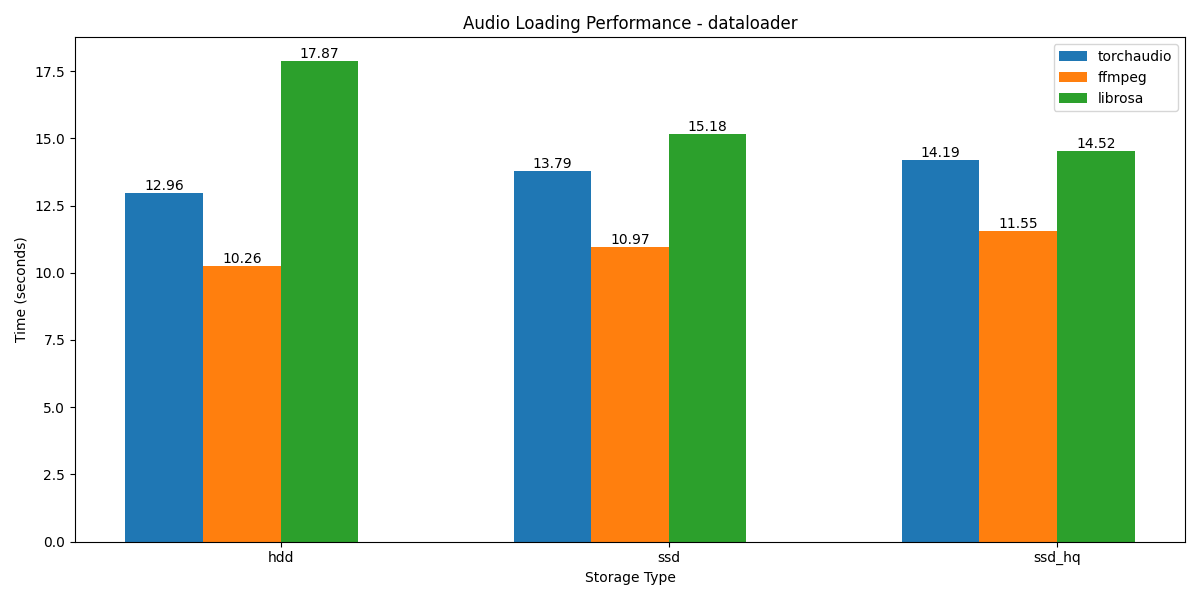
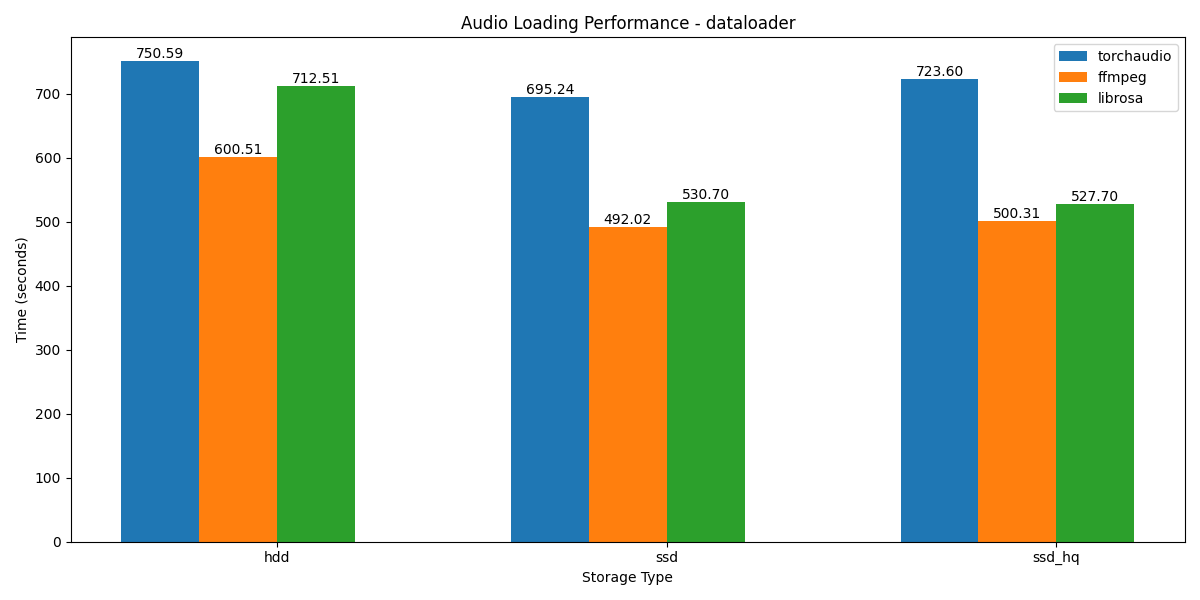
update

diff --git a/audio_speed_test.py b/audio_speed_test.py
@@ -23,19 +23,28 @@ def run_loader(args):
     _ = loader_func(file_path)
     return time.time() - start_time
     
-class AudioDataset(Dataset):
+class AudioDataset(torch.utils.data.IterableDataset):
     def __init__(self, root_dir: str, loader_func: Callable):
+        super().__init__()
         self.root_dir = Path(root_dir)
-        self.audio_files = list(os.listdir(self.root_dir))  # Adjust extension as needed
+        self.audio_files = list(os.listdir(self.root_dir))
         self.loader_func = loader_func
-
-    def __len__(self):
-        return len(self.audio_files)
-
-    def __getitem__(self, idx):
-        audio_path = os.path.join(self.root_dir, self.audio_files[idx])
-        audio_data, sample_rate = self.loader_func(audio_path)
-        return audio_data
+        
+    def __iter__(self):
+        worker_info = torch.utils.data.get_worker_info()
+        if worker_info is None:  # Single-process data loading
+            iter_start = 0
+            iter_end = len(self.audio_files)
+        else:  # In a worker process
+            per_worker = int(len(self.audio_files) / worker_info.num_workers)
+            worker_id = worker_info.id
+            iter_start = worker_id * per_worker
+            iter_end = iter_start + per_worker if worker_id < worker_info.num_workers - 1 else len(self.audio_files)
+            
+        for idx in range(iter_start, iter_end):
+            audio_path = os.path.join(self.root_dir, self.audio_files[idx])
+            audio_data, sample_rate = self.loader_func(audio_path)
+            yield audio_data
 
 class AudioLoadingTest:
     def __init__(self, storage_paths: Dict[str, str]):
@@ -57,7 +66,7 @@ class AudioLoadingTest:
             '-f', 'f32le',
             '-acodec', 'pcm_f32le',
             '-ar', '44100',
-            '-ac', '1',
+            '-ac', '2',
             '-'
         ]
         proc = subprocess.Popen(cmd, stdout=subprocess.PIPE, stderr=subprocess.PIPE)
@@ -73,33 +82,32 @@ class AudioLoadingTest:
         data, sample_rate = librosa.load(file_path, sr=None) # no resampling
         return data, sample_rate
 
-    def test_single_file(self, file_path: str, n_iterations: int = 100) -> Dict:
+    def test_single_file(self, file_paths: str, n_item: int = 100) -> Dict:
         loaders = {
             'torchaudio': self.load_audio_torchaudio,
             'ffmpeg': self.load_audio_ffmpeg,
             'librosa': self.load_audio_librosa
         }
         results = {}
-        
+        audio_paths = file_paths[:n_item]        
         with multiprocessing.Pool() as pool:
             for loader_name, loader_func in loaders.items():
-                args = [(loader_func, file_path) for _ in range(n_iterations)]
+                args = [(loader_func, path) for path in audio_paths]
                 times = pool.map(run_loader, args)
                 
                 results[loader_name] = {
                     'mean': np.mean(times),
-                    'std': np.std(times), 
-                    'min': np.min(times),
+                    'std': np.std(times),
+                    'min': np.min(times), 
                     'max': np.max(times)
                 }
-        
         return results
 
-    def run_storage_comparison(self, filename: str):
+    def run_storage_comparison(self):
         results = {}
         for storage_type, path in self.storage_paths.items():
-            file_path = os.path.join(path, filename)
-            results[storage_type] = self.test_single_file(file_path)
+            file_paths = [os.path.join(path, f) for f in os.listdir(path)]
+            results[storage_type] = self.test_single_file(file_paths)
         self.results['single_file'] = results
         return results
 

diff --git a/run_tests.py b/run_tests.py
@@ -16,11 +16,11 @@ def main(args):
 
     # Test 1: Single file comparison
     print("Running single file tests...")
-    test.run_storage_comparison('7481.mp3')
+    test.run_storage_comparison()
     test.visualize_results('single_file')
     # Test 2: DataLoadser comparison
     batch_size = 1
-    num_workers = 8
+    num_workers = 32
     dataloader_results = {}
     for storage_type, path in storage_paths.items():
         print(f"\nTesting DataLoader with {storage_type}...")
@@ -36,7 +36,6 @@ def main(args):
                 dataset,
                 batch_size=batch_size,
                 num_workers=num_workers,
-                shuffle=True
             )
             # Time the entire epoch
             start_time = time.time()

diff --git a/cp_audio.py b/cp_audio.py
@@ -6,8 +6,6 @@ from multiprocessing import Pool, Manager
 
 def process_file(args):
     idx, filename, target_audio_dir, ssd_dir, hdd_dir, ssd2_dir = args
-    if idx >= 100:
-        return None
     src = os.path.join(target_audio_dir, filename)
     dst = os.path.join(ssd_dir, filename)
     hdd_dst = os.path.join(hdd_dir, filename)
@@ -35,4 +33,7 @@ with Pool() as pool:
     durations = [d for d in durations if d is not None]
     
 # average audio duration:296.74471641
+total_duration_hours = sum(durations) / 3600  # Convert seconds to hours
+print(f"Total audio duration: {total_duration_hours:.2f} hours")
+
 print(np.mean(durations))

diff --git a/README.md b/README.md
@@ -1,6 +1,6 @@
 # Audio Loading Speed Test
 
-This project provides tools for benchmarking different audio loading methods across various storage types and loading libraries. It helps you understand and optimize audio loading performance in your applications.
+This project compares the performance of iterable dataloaders when loading a large-scale audio dataset (100k samples, 860 hours) across different storage types and audio loading libraries.
 
 - Comprehensive audio loading benchmarks:
   - Compare performance across storage types (HDD, SSD, NFS)
